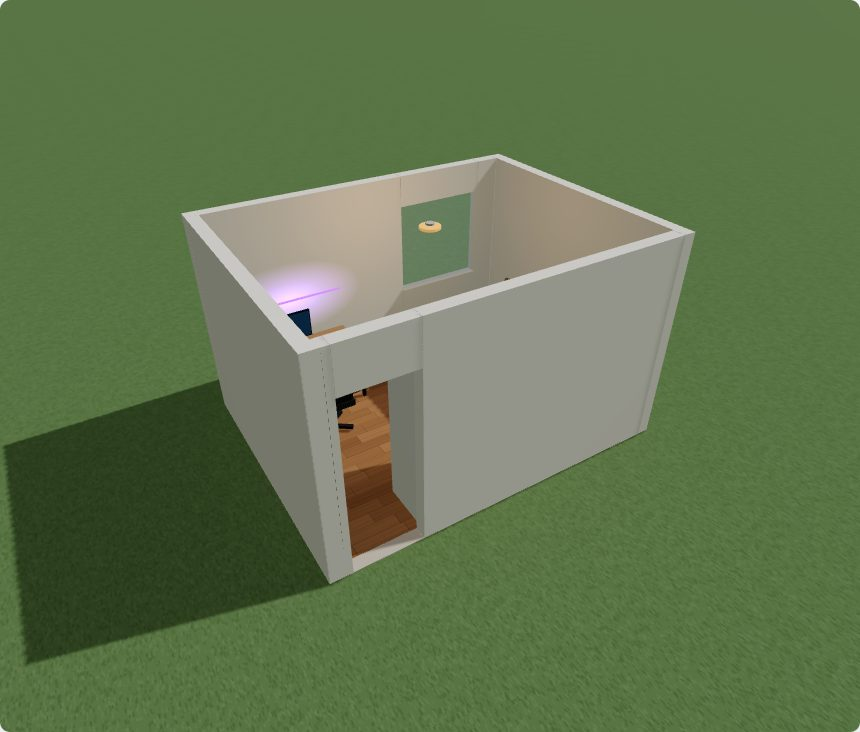
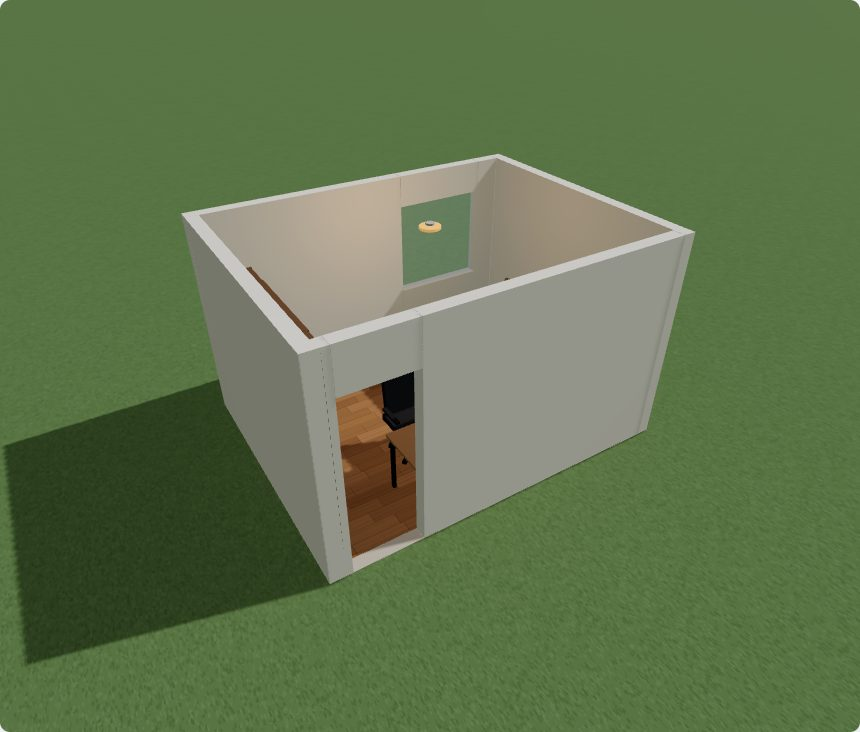
feat: laundry basket (canasta de ropa sucia) in the catalog; Brandon Cuarto — rearranged for an entertainment centre with a 55" TV on the left wall facing the bed, gaming desk on the front wall beside the door, wardrobe in the front-right corner, basket by the foot of the bed
Claude-Session: https://claude.ai/code/session_01AFnSiYVaDU1pMPqiY52pPf

Changed region(s): [[0.393, 0.5109, 0.4837, 0.7213], [0.2721, 0.3607, 0.4233, 0.4809]]

diff --git a/src/furniture/meshes.tsx b/src/furniture/meshes.tsx
@@ -1413,6 +1413,24 @@ const pouf: Builder = ({ w, d, h, c }) => {
   );
 };
 
+/** Laundry basket: a woven wicker drum with darker bands, two hand holes and some clothes heaped at the top. */
+const basket: Builder = ({ w, d, h, c }) => {
+  const r = Math.min(w, d) / 2;
+  return (
+    <>
+      <C p={[0, h / 2, 0]} r={r} top={r * 0.92} h={h} c={c} rough={1} seg={24} />
+      {[0.15, 0.4, 0.65, 0.97].map((t) => (
+        <C key={t} p={[0, h * t, 0]} r={r * (1 - t * 0.08) + 0.004} h={0.025} c={shade(c, 0.72)} seg={24} />
+      ))}
+      {[-1, 1].map((s) => (
+        <B key={s} p={[s * r * 0.95, h * 0.85, 0]} s={[0.02, 0.035, r * 0.6]} c={shade(c, 0.4)} />
+      ))}
+      <S p={[r * 0.2, h, 0]} r={r * 0.55} c={'#5b7fa6'} sc={[1, 0.35, 0.9]} />
+      <S p={[-r * 0.3, h + 0.01, r * 0.15]} r={r * 0.45} c={'#e8e2d6'} sc={[1, 0.4, 1]} />
+    </>
+  );
+};
+
 /** Vertical garden: a frame on the wall covered with leafy clusters of several greens and a few flowers. */
 const verticalGarden: Builder = ({ w, d, h, c }) => {
   const cols = Math.max(3, Math.round(w / 0.13));
@@ -1587,6 +1605,7 @@ const BUILDERS: Record<FurnitureModel, Builder> = {
   centroEntretenimiento: entertainment, consola: console_, cortina: curtain, tiraLed: ledStrip, cuadro: picture,
   repisa: collectiblesShelf, jacuzzi, toallero: towelRail, brasero: firePit, puf: pouf, jardinVertical: verticalGarden,
   vestier: dressing, luzEmpotrada: recessed, colgante: pendant, aplique: sconce, aire: airConditioner,
+  canasta: basket,
 };
 
 /** How bright light fittings shine by time of day (their light is lost in daylight, plain at night). */

diff --git a/src/furniture/catalog.ts b/src/furniture/catalog.ts
@@ -18,7 +18,7 @@ export type FurnitureModel =
   | 'banca' | 'carro' | 'moto' | 'piscina' | 'asoleadora' | 'sombrilla' | 'pergola' | 'bar' | 'parrilla'
   | 'jardinera' | 'arbol' | 'poste' | 'centroEntretenimiento' | 'cortina' | 'tiraLed' | 'cuadro' | 'repisa'
   | 'consola' | 'jacuzzi' | 'toallero' | 'brasero' | 'puf' | 'jardinVertical' | 'porton' | 'vestier'
-  | 'luzEmpotrada' | 'colgante' | 'aplique' | 'aire';
+  | 'luzEmpotrada' | 'colgante' | 'aplique' | 'aire' | 'canasta';
 
 /** Open walk-in dressing modules (model 'vestier'): what each one holds. */
 export type Dressing = 'colgar' | 'repisas' | 'zapatos' | 'cajones';
@@ -150,6 +150,7 @@ export const CATALOG: CatalogItem[] = [
   // Lavandería
   item('lavadero', 'Lavadero', 'Lavandería', 'lavadero', [0.7, 0.6, 0.85], '#c9c6c0'),
   item('lavadora', 'Lavadora', 'Lavandería', 'lavadora', [0.6, 0.65, 0.95], LOZA),
+  item('canasta-ropa', 'Canasta de ropa sucia', 'Lavandería', 'canasta', [0.42, 0.42, 0.6], '#b8935f'),
   // Exterior
   item('matera', 'Matera con planta', 'Exterior', 'matera', [0.45, 0.45, 1.0], '#a0522d'),
   item('banca', 'Banca de exterior', 'Exterior', 'banca', [1.2, 0.45, 0.45], '#9a7650'),
@@ -197,6 +198,7 @@ const SYNONYMS: Record<string, string> = {
   comoda: 'cajonera cajones',
   semanario: 'cajonera cajones comoda',
   closet: 'armario ropero guardarropa',
+  canasta: 'cesto ropa sucia lavanderia',
   vestier: 'closet armario ropero walk-in',
   sanitario: 'inodoro wc',
   lavamanos: 'lavabo',

diff --git a/src/furniture/symbols.tsx b/src/furniture/symbols.tsx
@@ -342,6 +342,7 @@ const BUILDERS: Record<FurnitureModel, Builder> = {
   centroEntretenimiento: entertainment, cortina: curtain, tiraLed: flat, cuadro: flat, repisa: shelfDots, consola: box(0.03),
   jacuzzi, toallero: flat, brasero: firePit, puf: pouf, jardinVertical: shelfDots, vestier: shelfDots,
   luzEmpotrada: lightPoint, colgante: lightPoint, aplique: lightPoint, aire: flat,
+  canasta: ({ w, d }) => <>{circle(0, 0, Math.min(w, d) / 2)}{circle(0, 0, Math.min(w, d) * 0.35, 'c')}</>,
   porton: ({ w, d, open }) => (
     <>
       {gatePanels(w, open === true).map((pn, i) => rect(pn.x0, (pn.track === 0 ? -d / 2 : 0), pn.x1 - pn.x0, d / 2, 0, i))}
